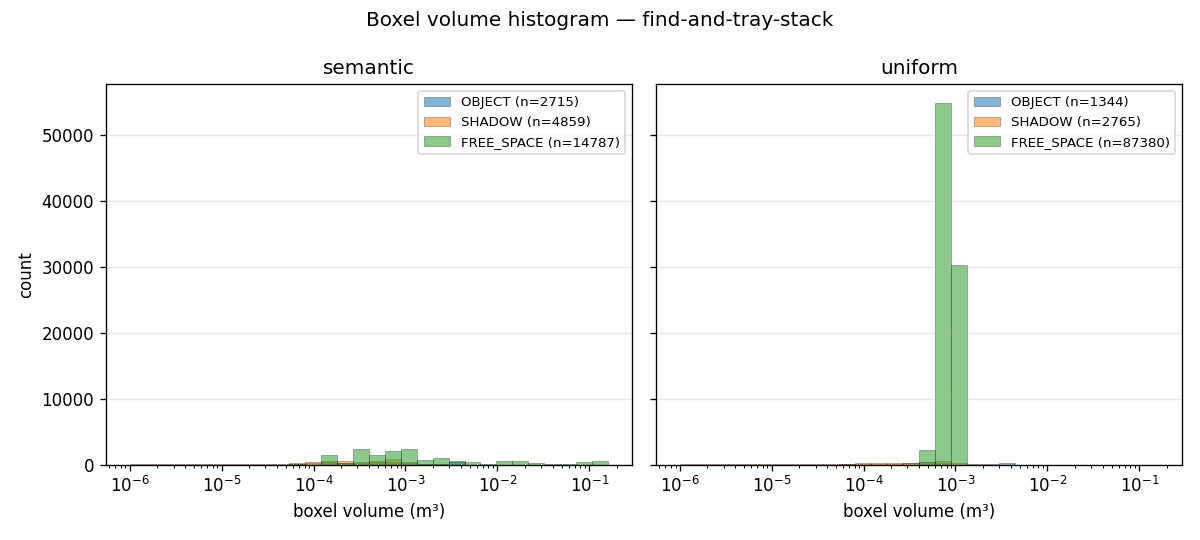
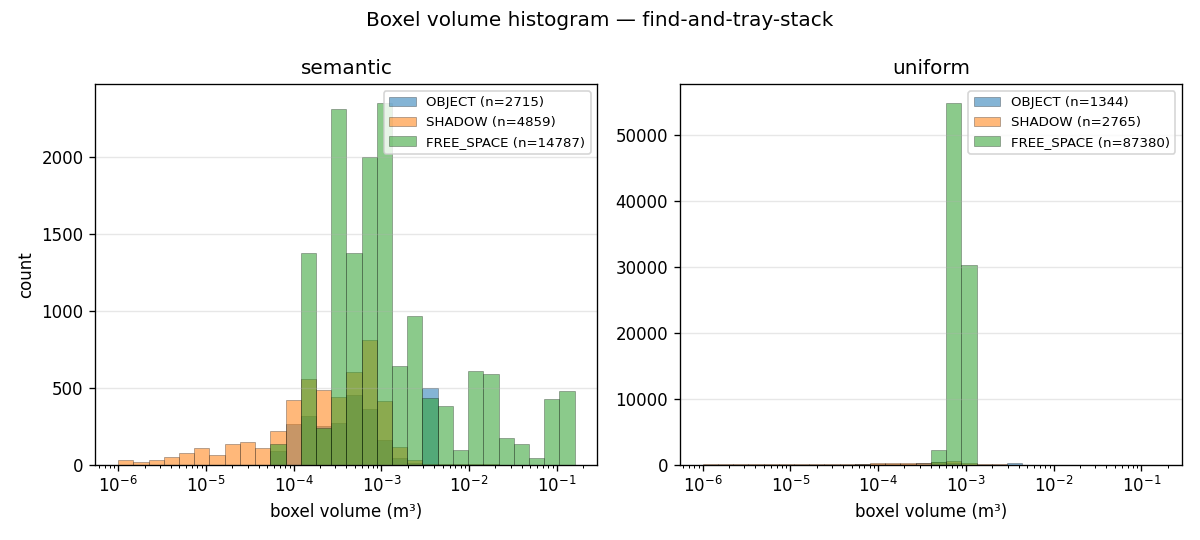
eval_plotter: extend wallclock_vs_planning to 1800 s cap, annotate small-n points on plot_metric lines, drop sharey on boxel_volume_histogram

diff --git a/eval_plotter.py b/eval_plotter.py
@@ -526,9 +526,13 @@ def plot_boxel_volume_histogram(
         hi = lo + 1.0
     bins = [10 ** (lo + (hi - lo) * i / 30) for i in range(31)]
 
+    # Per-panel y-axis: uniform's ~50k-count free-space spike used to
+    # dominate a shared-y plot and flatten the semantic distribution
+    # visually.  sharex is preserved so the log-volume bins align
+    # across panels.
     fig, axes = plt.subplots(1, len(baselines),
                              figsize=(5 * len(baselines), 4.5),
-                             sharey=True, sharex=True)
+                             sharex=True)
     if len(baselines) == 1:
         axes = [axes]
     for ax, baseline in zip(axes, baselines):
@@ -830,9 +834,16 @@ def plot_wallclock_vs_planning(
         print(f"[plotter] no data for {title}")
         return None
 
+    # --max-plan-time default (run_logger.py:504) — the per-cell
+    # wall-clock budget cap.  Pin the scatter range to [0, CAP_S] on
+    # both axes so the y=x reference line spans the full square and
+    # the empty region in the upper-left ("planning fast, wall-clock
+    # slow") and the unreachable lower-right ("wall-clock < planning")
+    # are visible at a glance.
+    CAP_S = 1800.0
+
     baseline_colors = {"semantic": "#1f77b4", "uniform": "#ff7f0e"}
     fig, ax = plt.subplots(figsize=(7, 5.5))
-    all_max = 0.0
     for baseline in baselines:
         pairs = grouped[baseline]
         if not pairs:
@@ -843,18 +854,16 @@ def plot_wallclock_vs_planning(
                    c=baseline_colors.get(baseline),
                    edgecolors="black", linewidths=0.4,
                    label=f"{baseline} (n={len(pairs)})")
-        all_max = max(all_max, max(xs), max(ys))
 
-    if all_max > 0:
-        diag = [0, all_max]
-        ax.plot(diag, diag, linestyle="--", color="gray",
-                linewidth=1.0, alpha=0.7, label="y = x (pure planning)")
+    diag = [0, CAP_S]
+    ax.plot(diag, diag, linestyle="--", color="gray",
+            linewidth=1.0, alpha=0.7, label="y = x (pure planning)")
 
     ax.set_xlabel("total planning time (s)")
     ax.set_ylabel("wall clock (s)")
     ax.set_title(title)
-    ax.set_xlim(left=0)
-    ax.set_ylim(bottom=0)
+    ax.set_xlim(0, CAP_S)
+    ax.set_ylim(0, CAP_S)
     ax.grid(True, alpha=0.3)
     ax.legend(loc="best")
     fig.tight_layout()
@@ -1575,6 +1584,17 @@ def plot_metric(grouped: Dict[int, Dict[int, List[float]]],
                   for m, s in zip(means, stds)]
             ax.fill_between(xs, lo, hi, alpha=0.18,
                             color=line.get_color())
+            # Annotate per-point sample size when n is small (success-
+            # only metrics can leave a "trend" line riding on n=1
+            # outliers — e.g. uniform/f-a-t-s/occ=4 had 1/100 success,
+            # 533 s).  Threshold 5 hides the routine n~100 case and
+            # surfaces the suspicious ones.
+            for x_val, m in zip(xs, means):
+                n = len(xy[x_val])
+                if n <= 5:
+                    ax.annotate(f"n={n}", xy=(x_val, m),
+                                xytext=(5, 5), textcoords="offset points",
+                                fontsize=8, color=line.get_color())
 
     _plot(grouped, main_label_suffix, "-")
     if baseline_grouped is not None:
